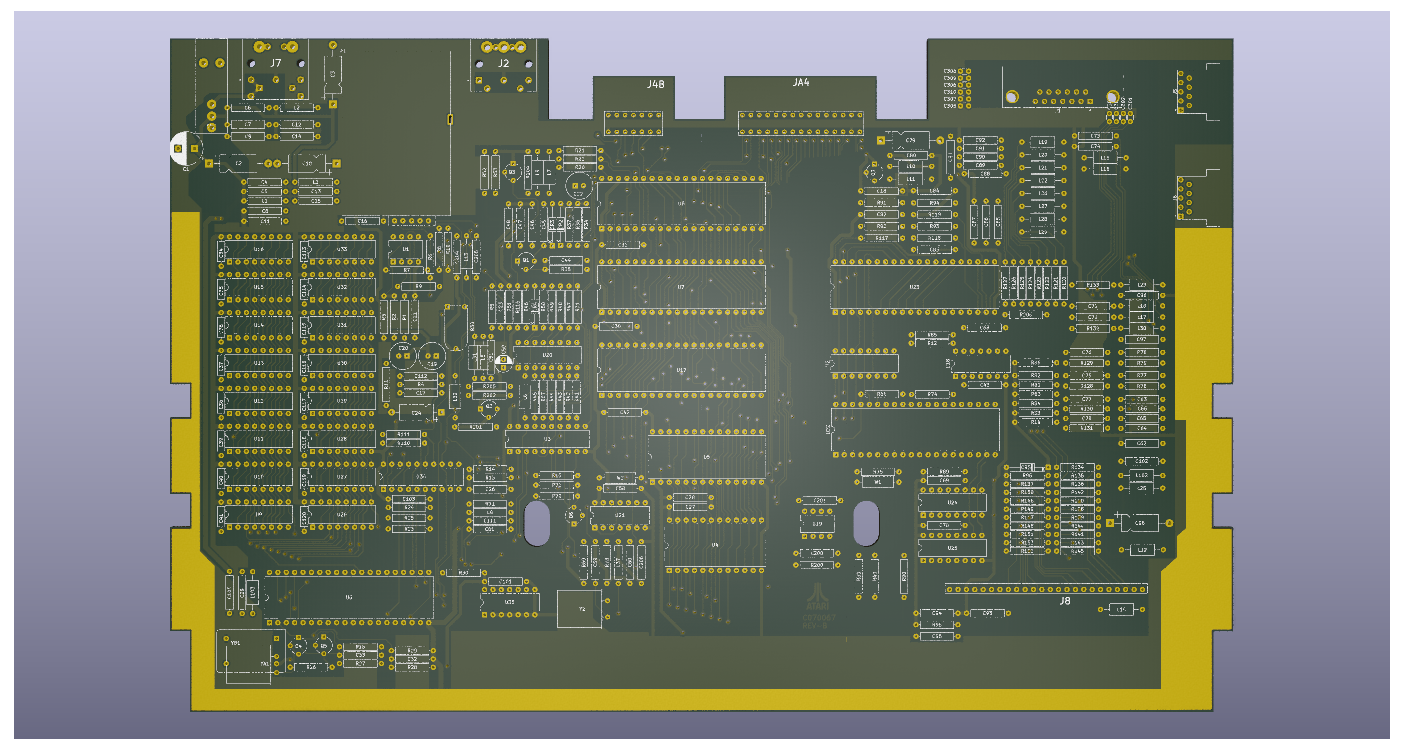
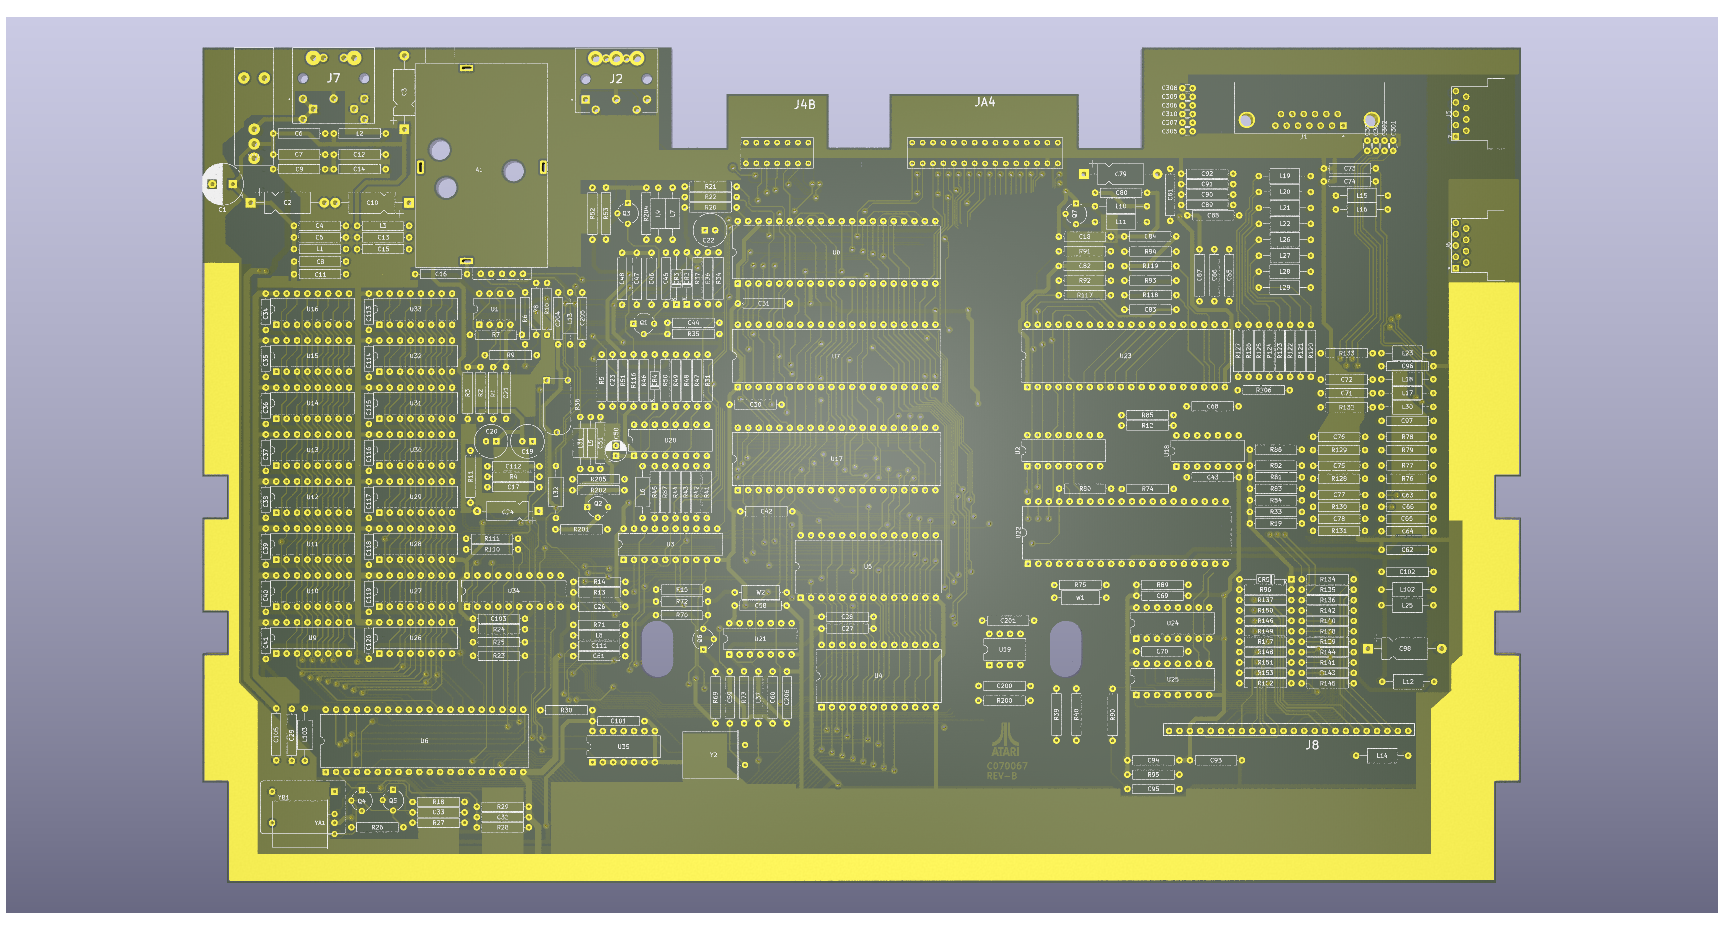
update readme and render

diff --git a/README.md b/README.md
@@ -51,20 +51,22 @@ be replaced with a MC68B21 (or equivalent).
 ## Progress
 
 Transcription of the schematics is completed subject to review. Some minor
-component numbering errors are present on the soure schematic and there are 
-two gaps that likely should be components. The gaps will be resolved as the
-PCB routing is performed.
+component numbering errors are present on the soure schematic but are dealt
+with as they are found. Some components on the schematic have been deleted
+on the sample PCBs, these are removed when identified but left unattached
+in the schematic for reference.
 
-Recreation of the original PCB routing is in progress and approximately 25%
-complete.
+Recreation of the original PCB routing is in progress and approximately 50%
+complete. All components are placed.
 
 Mounting holes for the board and shielding are not included yet. The PCB
-outline is correct. Footprints for SIO port and expansion port are not 
-included.
+outline is correct.
 
-The footprint for the monitor port is correct for electrical connections 
-but does not match the original layout or mounting pins. The power port 
-is likewise correct but only needs adjustment to the locating pins.
+Footprints for SIO, and the two joysticks need refiniement - the footprints
+for both are non-standard so the current footprints should be considered as
+placeholders only. The edge connectors require further detail to ensure
+dimensional accuracy and relative positioning, and to include mounting/locating
+holes.
 
 ![Render of PCB top](./Atari65XEC070067RevB.png)
 
